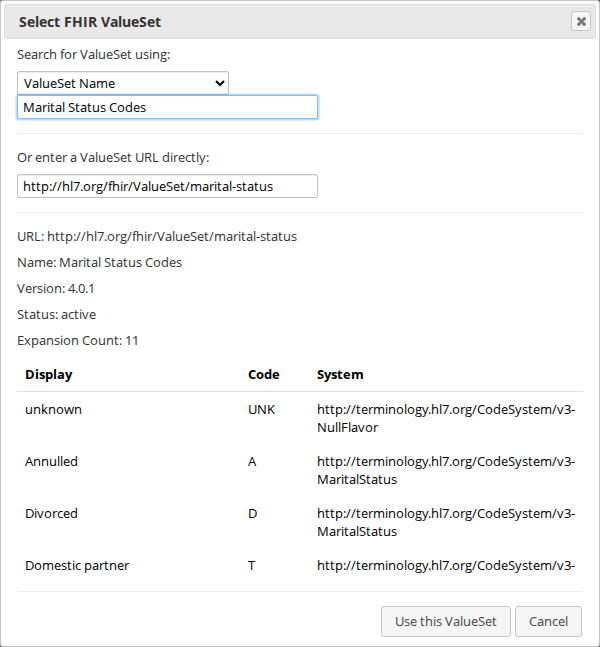
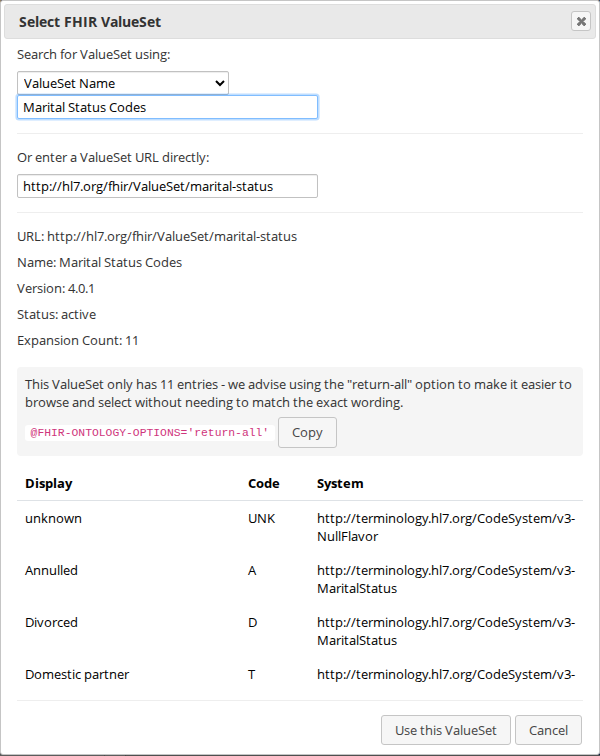
docs: show the @FHIR-ONTOLOGY-OPTIONS recommendation in the popup screenshot
Merge in the online-designer-popup branch's fix for the stale "Online
designer" section/screenshots, then update both for this branch's own
addition: the dialog now also suggests an @FHIR-ONTOLOGY-OPTIONS tag
for small/single-system ValueSets, so the reference screenshot and
text should show that too.

diff --git a/README.md b/README.md
@@ -194,8 +194,10 @@ above). Clicking "Change..." opens one dialog containing:
 - an autocomplete search box driven by the search-type above, for finding a ValueSet without already knowing its URL
 - **Or enter a ValueSet URL directly:** a text input holding the URI of the ValueSet under review - filled in
   automatically by picking an autocomplete result, or editable directly if the URL is already known
-- a details panel showing the reviewed ValueSet's URL/name/version/status/expansion count, and a table of its first
-  entries (Display/Code/System)
+- a details panel showing the reviewed ValueSet's URL/name/version/status/expansion count, a suggested
+  `@FHIR-ONTOLOGY-OPTIONS` tag when the ValueSet looks like a good fit for `return-all` (see
+  [@FHIR-ONTOLOGY-OPTIONS support](#fhir-ontology-options-support) below), and a table of its first entries
+  (Display/Code/System)
 - **"Use this ValueSet"**/**"Cancel"** buttons - picking a search result or typing a URL only loads that ValueSet's
   details for review; the field's saved selection only changes once "Use this ValueSet" is clicked, and "Cancel" (or
   closing the dialog) discards the review and leaves the previously saved selection untouched
